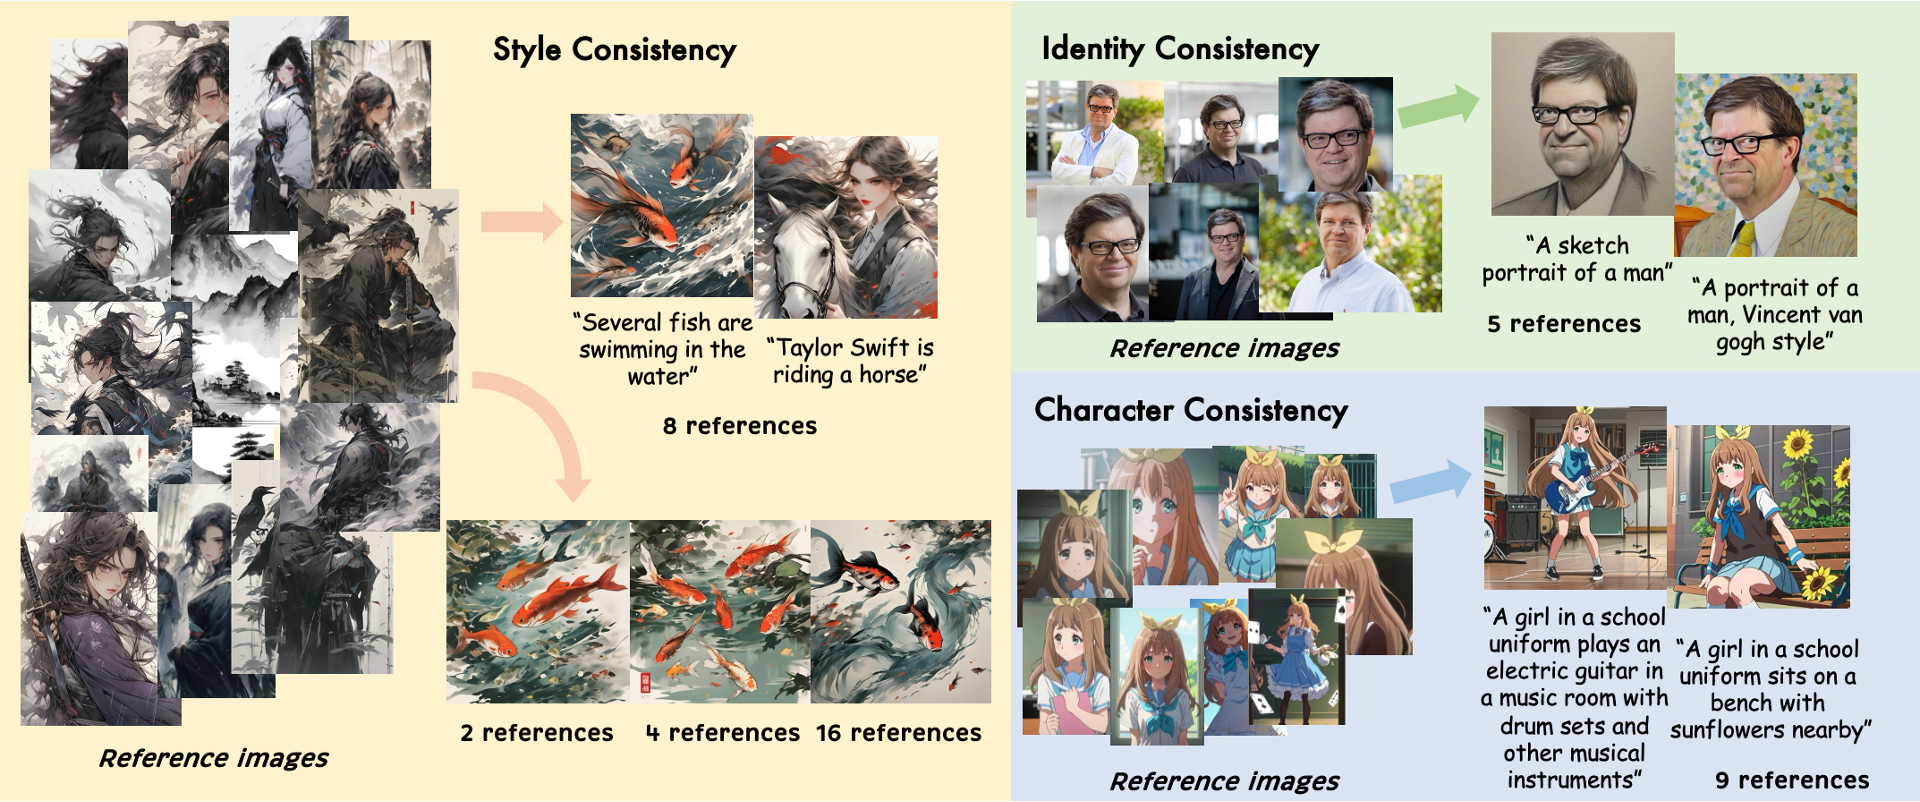
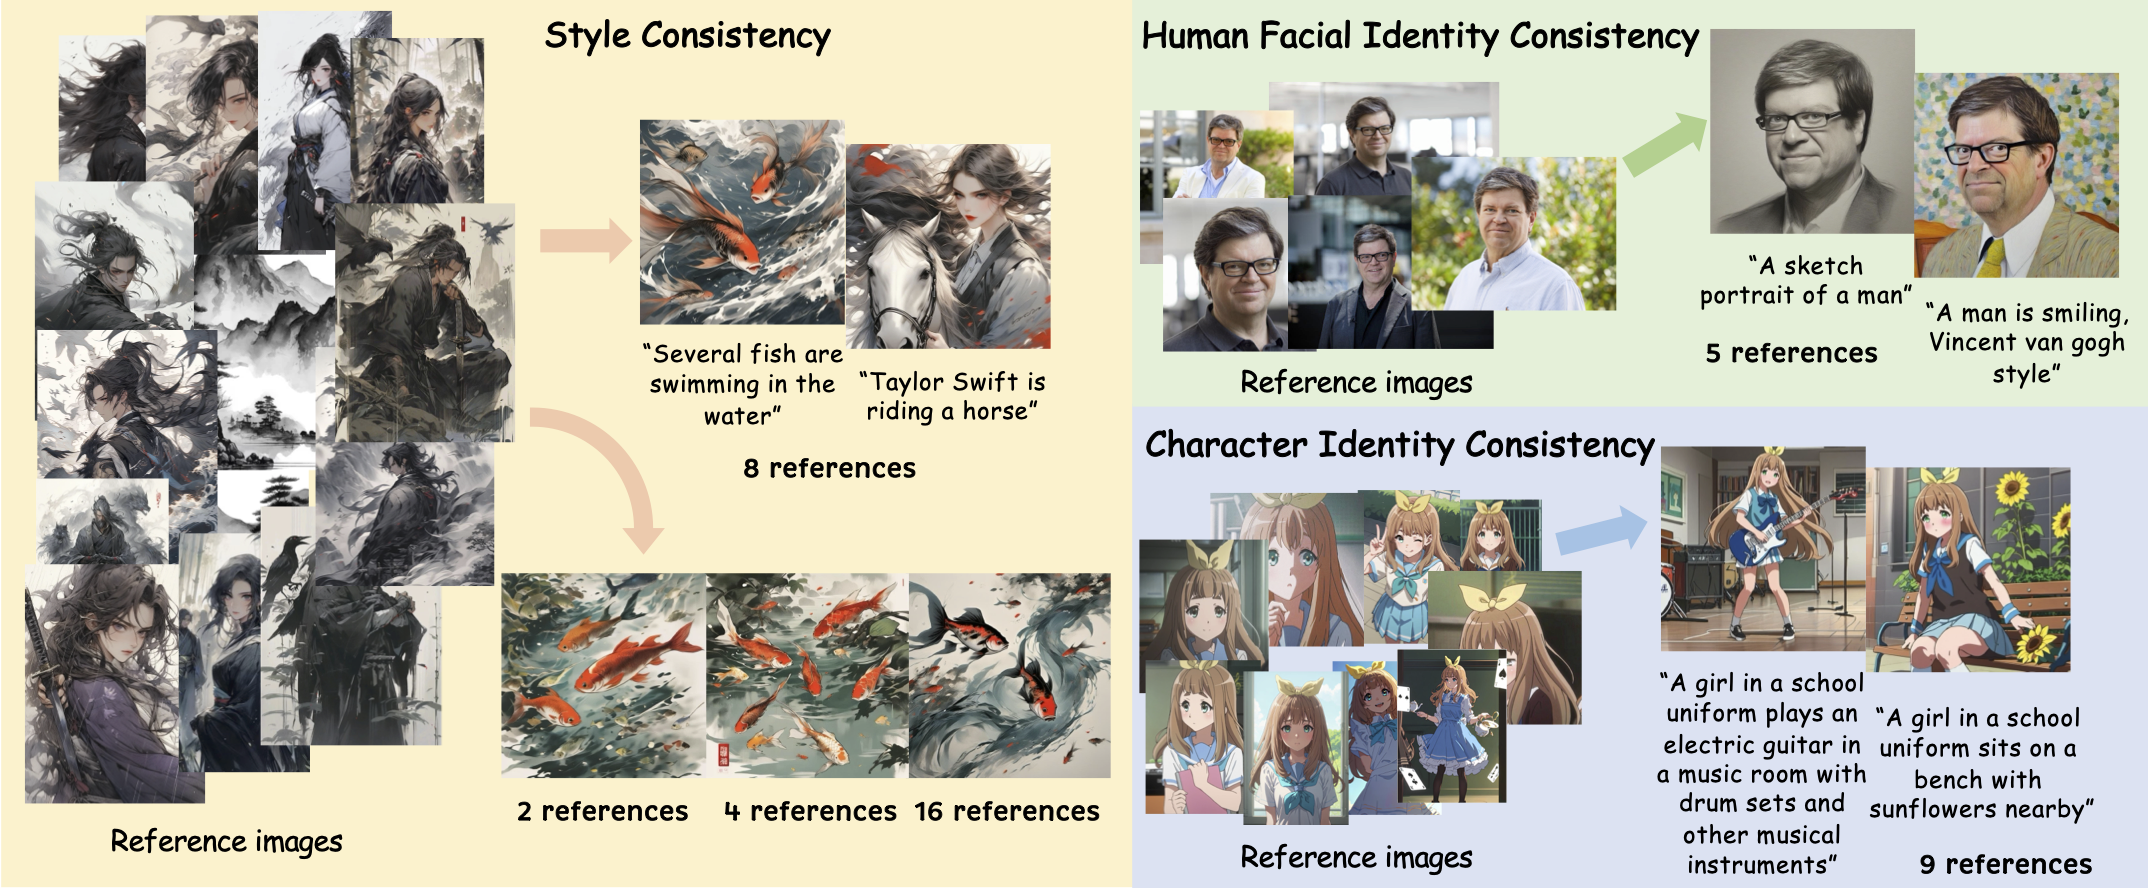
Update ICML version

diff --git a/ip_adapter/ip_adapter.py b/ip_adapter/ip_adapter.py
@@ -2,12 +2,17 @@ import os
 from typing import List
 
 import torch
+import logging
+from typing import Optional, Tuple
+
 from diffusers import StableDiffusionPipeline
 from diffusers.pipelines.controlnet import MultiControlNetModel
 from PIL import Image
 from safetensors import safe_open
 from transformers import CLIPImageProcessor, CLIPVisionModelWithProjection
 from transformers import Qwen2VLForConditionalGeneration, AutoTokenizer, AutoProcessor
+from transformers.cache_utils import Cache
+from transformers.models.qwen2_vl.modeling_qwen2_vl import Qwen2VLSdpaAttention, apply_multimodal_rotary_pos_emb, repeat_kv, logger
 from qwen_vl_utils import process_vision_info
 
 from .utils import is_torch2_available, get_generator
@@ -32,6 +37,107 @@ else:
     from .attention_processor import AttnProcessor, CNAttnProcessor, IPAttnProcessor
     from .attention_processor_faceid import LoRAAttnProcessor, LoRAIPAttnProcessor
 from .resampler import Resampler
+
+
+# Adapted from Qwen2Attention.forward
+# Update: Monkey Patching for Qwen2-VL full attention (202501 version only)
+def custom_forward(
+    self,
+    hidden_states: torch.Tensor,
+    attention_mask: Optional[torch.Tensor] = None,
+    position_ids: Optional[torch.LongTensor] = None,
+    past_key_value: Optional[Cache] = None,
+    output_attentions: bool = False,
+    use_cache: bool = False,
+    cache_position: Optional[torch.LongTensor] = None,
+    position_embeddings: Optional[Tuple[torch.Tensor, torch.Tensor]] = None,  # will become mandatory in v4.46
+) -> Tuple[torch.Tensor, Optional[torch.Tensor], Optional[Tuple[torch.Tensor]]]:
+    if output_attentions:
+        # TODO: Improve this warning with e.g. `model.config.attn_implementation = "manual"` once this is implemented.
+        logger.warning_once(
+            "Qwen2VLModel is using Qwen2VLSdpaAttention, but `torch.nn.functional.scaled_dot_product_attention` does not support `output_attentions=True`. Falling back to the manual attention implementation, "
+            'but specifying the manual implementation will be required from Transformers version v5.0.0 onwards. This warning can be removed using the argument `attn_implementation="eager"` when loading the model.'
+        )        
+        return super().forward(
+            hidden_states=hidden_states,
+            attention_mask=attention_mask,
+            position_ids=position_ids,
+            past_key_value=past_key_value,
+            output_attentions=output_attentions,
+            use_cache=use_cache,
+            cache_position=cache_position,
+        )
+
+    bsz, q_len, _ = hidden_states.size()
+
+    query_states = self.q_proj(hidden_states)
+    key_states = self.k_proj(hidden_states)
+    value_states = self.v_proj(hidden_states)
+
+    query_states = query_states.view(bsz, q_len, self.num_heads, self.head_dim).transpose(1, 2)
+    key_states = key_states.view(bsz, q_len, self.num_key_value_heads, self.head_dim).transpose(1, 2)
+    value_states = value_states.view(bsz, q_len, self.num_key_value_heads, self.head_dim).transpose(1, 2)
+
+    kv_seq_len = key_states.shape[-2]
+    if past_key_value is not None:
+        kv_seq_len += past_key_value.get_usable_length(kv_seq_len, self.layer_idx)
+    if position_embeddings is None:
+        logger.warning_once(
+            "The attention layers in this model are transitioning from computing the RoPE embeddings internally "
+            "through `position_ids` (2D tensor with the indexes of the tokens), to using externally computed "
+            "`position_embeddings` (Tuple of tensors, containing cos and sin). In v4.46 `position_ids` will be "
+            "removed and `position_embeddings` will be mandatory."
+        )        
+        cos, sin = self.rotary_emb(value_states, position_ids)
+    else:
+        cos, sin = position_embeddings
+    query_states, key_states = apply_multimodal_rotary_pos_emb(
+        query_states, key_states, cos, sin, self.rope_scaling["mrope_section"]
+    )
+
+    if past_key_value is not None:
+        cache_kwargs = {"sin": sin, "cos": cos, "cache_position": cache_position}  # Specific to RoPE models
+        key_states, value_states = past_key_value.update(key_states, value_states, self.layer_idx, cache_kwargs)
+
+    key_states = repeat_kv(key_states, self.num_key_value_groups)
+    value_states = repeat_kv(value_states, self.num_key_value_groups)
+
+    causal_mask = attention_mask
+    if attention_mask is not None:  # no matter the length, we just slice it
+        causal_mask = attention_mask[:, :, :, : key_states.shape[-2]]
+
+    # SDPA with memory-efficient backend is currently (torch==2.1.2) bugged with non-contiguous inputs with custom attn_mask,
+    # Reference: https://github.com/pytorch/pytorch/issues/112577.
+    if query_states.device.type == "cuda" and attention_mask is not None:
+        query_states = query_states.contiguous()
+        key_states = key_states.contiguous()
+        value_states = value_states.contiguous()
+
+    # We dispatch to SDPA's Flash Attention or Efficient kernels via this `is_causal` if statement instead of an inline conditional assignment
+    # in SDPA to support both torch.compile's dynamic shapes and full graph options. An inline conditional prevents dynamic shapes from compiling.
+    # The q_len > 1 is necessary to match with AttentionMaskConverter.to_causal_4d that does not create a causal mask in case q_len == 1.
+    is_causal = True if causal_mask is None and q_len > 1 else False
+    # Support self.is_causal
+    is_causal = is_causal and self.is_causal
+
+    attn_output = torch.nn.functional.scaled_dot_product_attention(
+        query_states,
+        key_states,
+        value_states,
+        attn_mask=causal_mask,
+        dropout_p=self.attention_dropout if self.training else 0.0,
+        is_causal=is_causal,
+    )
+
+    attn_output = attn_output.transpose(1, 2).contiguous()
+    attn_output = attn_output.view(bsz, q_len, self.hidden_size)
+
+    attn_output = self.o_proj(attn_output)
+
+    return attn_output, None, past_key_value
+
+def apply_attention_patch():
+    Qwen2VLSdpaAttention.forward = custom_forward
 
 
 class ImageProjModel(torch.nn.Module):
@@ -459,6 +565,7 @@ class EasyRef(IPAdapter):
         self.pipe = sd_pipe.to(self.device)
         self.set_ip_adapter()
 
+        apply_attention_patch()
         # load image encoder
         mllm_final_layer = Qwen2VLForConditionalGeneration.from_pretrained(
             multimodal_llm_path, 

diff --git a/finetune_sdxl.py b/finetune_sdxl.py
@@ -96,7 +96,7 @@ class MyDataset(torch.utils.data.Dataset):
                  i_drop_rate=0.05, 
                  ti_drop_rate=0.05, 
                  truncate_rate=0.0, 
-                 max_num_images=24, 
+                 max_num_images=16, 
                  cond_image_size=336,
                  image_root_path="", 
                  random_crop=True, 
@@ -612,7 +612,7 @@ def parse_args():
     parser.add_argument(
         "--max_num_images",
         type=int,
-        default=28,
+        default=16,
         help=(
             "Max number of reference images"
         ),

diff --git a/README.md b/README.md
@@ -46,7 +46,7 @@ EasyRef is capable of modeling the consistent visual elements of various group i
 <img src='assets/teaser.png'>
 
 ## Release
-- [2025/04/03] 🔥 The latest EasyRef model (trained January 2025) surpasses the image quality of the previous EasyModel (trained November 2024) and will be open-sourced soon.
+- [2025/07/16] 🎉 EasyRef has been accepted to ICML 2025. We have released updated code and model weights with enhanced subject-preservation capabilities.
 - [2025/01/06] 🔥 We release the [gradio demo](https://huggingface.co/spaces/zongzhuofan/EasyRef)!
 - [2024/12/13] 🔥 We release the [training code](https://github.com/TempleX98/EasyRef/blob/main/scripts/multi_ref_finetuning.sh), [inference code](https://github.com/TempleX98/EasyRef/blob/main/easyref_demo.ipynb), and [pre-trained model](https://huggingface.co/zongzhuofan/EasyRef)!
 
@@ -72,13 +72,17 @@ git clone https://huggingface.co/Qwen/Qwen2-VL-2B-Instruct
 
 ## Demos
 More visualization examples are available in our [project page](https://easyref-gen.github.io/).
-### Comparison with IP-Adapter
+### Qualitative Results
 
 <img src='assets/qualitative.png'>
 
-### Compatibility with ControlNet
+### Subject Preservation Perormance
 
-<img src='assets/controlnet.png'>
+<img src='assets/dreambench.png'>
+
+### Face Preservation Perormance
+
+<img src='assets/face.png'>
 
 ## Training
 
@@ -145,7 +149,17 @@ We provide the inference code of EasyRef with SDXL in [**easyref_demo**](https:/
 - To ensure better identity preservation, we strongly recommend that users upload multiple square face images, ensuring the face occupies the majority of each image.
 - Using multimodal prompts (both reference images and non-empty text prompt) can achieve better results. 
 - We set `scale=1.0` by default. Lowering the `scale` value leads to more diverse but less consistent generation results.
+- Here are the recommended system prompts:
+```python
+# Default prompt 
+system_prompt = "Visualize a scene that closely resembles the provided images, capturing the essence and details described in this prompt:\n"
 
+# Prompt for subject preservation
+system_prompt = "Generate a contextually coherent scene that accurately integrates the primary subjects depicted in the input images and capture the essence and details described in this prompt:\n"
+
+# Prompt for human face preservation
+system_prompt = "Generate a visualization that highlights the human facial features present in the provided images and capture the essence and details described in this prompt:\n"
+```
 
 ## Acknowledgements
 - Our codebase is built upon the [IP-Adapter](https://github.com/tencent-ailab/IP-Adapter) repository.
